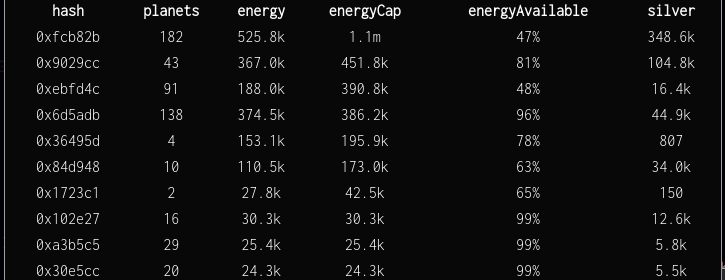
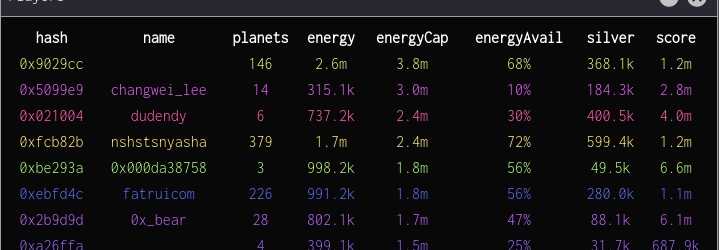
improved Player List plugin - added score, player colors, twitter names - you can now click on a player to jump to one of their planets - updated README and screenshot

diff --git a/content/utilities/player-list/plugin.js b/content/utilities/player-list/plugin.js
@@ -30,26 +30,61 @@ function CreatePlayersObject() {
 	return o;
 }
 
+async function downloadTwitterNames() {
+	return fetch('https://api.zkga.me/twitter/all-twitters')
+		.then(response => response.json())
+}
+
+// return example: 'hsl(285,100%,70%)'
+function getPlayerColor(ethAddress) {
+	return df.getProcgenUtils().getPlayerColor(ethAddress);
+}
+
+function findBestPlanetOfPlayer(ethAddress) {
+	const planets = df.getAllOwnedPlanets();
+	let bestPlanet = null;
+	for (const planet of planets) {
+		if (planet.owner !== ethAddress) continue;
+		if (bestPlanet === null) {
+			bestPlanet = planet;
+			continue;
+		}
+		if (planet.energyCap > bestPlanet.energyCap)
+			bestPlanet = planet;
+	}
+	return bestPlanet;
+}
+
+function getPlayerScore(player) {
+	return player.withdrawnSilver + player.totalArtifactPoints;
+}
+
 function Plugin() {
 	var o = {};
 	o.players = {};
 	o.playerList = [];
 	o.div;
 	o.div_playerList;
-	o.playerCount = 0;
 	o.updateInterv = null;
 	o.firstRender = true;
+	o.twitterNames = null;
+
+	o.init = function() {
+		o.updateInterv = setInterval(o.update, 1000*10);
+		o.update();
+		downloadTwitterNames().then(twitter => { o.twitterNames = twitter });
+	}
 
 	o.render = function(div) {
 		o.div = div;
-        div.style.width = '700px';
+		div.style.width = '700px';
+		div.parentElement.parentElement.style.bot = '0px'
 
-        o.div_playerList = document.createElement('div');
-        div.appendChild(o.div_playerList);
+		o.div_playerList = document.createElement('div');
+		div.appendChild(o.div_playerList);
 
 		if (o.firstRender) {
-			o.updateInterv = setInterval(o.update, 1000*10);
-			o.update();
+			o.init();
 			o.firstRender = false;
 		}
 	}
@@ -67,41 +102,45 @@ function Plugin() {
 	o.getPlayerInfo = function() {
 		if (o.playerList.length > 0) return;
 		const planets = df.getAllOwnedPlanets();
+		const allPlayers = df.getAllPlayers();
 		for (var hash in o.players) {
 			o.players[hash].reset();
 		}
-		for (var planet of planets) {
-			if (!o.players[planet.owner]) {
-				o.players[planet.owner] = CreatePlayersObject();
-				o.players[planet.owner].hash = planet.owner;
+		function createNewPlayer(hash) {
+			o.players[hash] = CreatePlayersObject();
+			o.players[hash].hash = planet.owner;
+			for (var p of allPlayers) {
+				if (p.address !== hash) continue;
+				o.players[hash].dfObject = p;
+				break;
 			}
+		}
+		for (var planet of planets) {
+			if (!o.players[planet.owner])
+				createNewPlayer(planet.owner);
 			var player = o.players[planet.owner];
 			player.addPlanet(planet);
 			player.energy += planet.energy;
 			player.energyCap += planet.energyCap;
 			player.silver += planet.silver;
 		}
-		o.playerCount = 0;
 		o.playerList = [];
 		for (var hash in o.players) {
 			var player = o.players[hash];
+			if (player.planets.length < minPlayerPlanetCount) continue;
 			o.playerList.push(player);
-			o.playerCount++;
 			player.energyAvailablePercent = player.energy/player.energyCap;
 		}
 		o.playerList.sort((a, b) => b.energyCap - a.energyCap );
 	}
 
 	o.drawPlayerInfo = function() {
-		var str = "";
-		//str += o.playerCount + " players";
-		//str += "\n";
-		o.div_playerList.innerText = str;
+		o.div_playerList.innerText = "";
 		var table = document.createElement('table');
 		table.width = "700px";
 		{
-			var tr = document.createElement('tr');
-			var groups = [ "hash", "planets", "energy", "energyCap", "energyAvailable", "silver" ];
+			const tr = document.createElement('tr');
+			const groups = [ "hash", "name", "planets", "energy", "energyCap", "energyAvail", "silver", "score" ];
 			for (var group of groups) {
 				var th = document.createElement('th');
 				th.innerText = group;
@@ -115,34 +154,51 @@ function Plugin() {
 			td.style["text-align"] = "center";
 			tr.appendChild(td);
 		}
-		for (var player of o.playerList) {
-			if (player.planets.length < minPlayerPlanetCount) continue;
-			var tr = document.createElement('tr');
+		for (const player of o.playerList) {
+			const tr = document.createElement('tr');
+			tr.style["color"] = getPlayerColor(player.hash);
+			tr.style.cursor = "pointer";
+			const bestPlanet = findBestPlanetOfPlayer(player.hash);
+			tr.onclick = ()=> {
+				ui.centerPlanet(bestPlanet);
+			}
+			const twitterName = o.getTwitterName(player.hash);
+			const name = twitterName !== "" ? twitterName : player.hash.substr(0, 8); 
+			tr.title = "jump to "+name;
+
 			addAsTd(tr, player.hash.substr(0, 8));
+			addAsTd(tr, twitterName);
 			addAsTd(tr, player.planets.length);
 			addAsTd(tr, formatNumberForDisplay(player.energy));
 			addAsTd(tr, formatNumberForDisplay(player.energyCap));
 			addAsTd(tr, parseInt(player.energyAvailablePercent*100)+"%");
 			addAsTd(tr, formatNumberForDisplay(player.silver));
+			addAsTd(tr, formatNumberForDisplay(getPlayerScore(player.dfObject)));
 			table.appendChild(tr);
 		}
-        o.div_playerList.appendChild(table);
+		o.div_playerList.appendChild(table);
+	}
+
+	o.getTwitterName = function(playerEthAddress) {
+		if (o.twitterNames === null) return "";
+		if (!o.twitterNames[playerEthAddress]) return "";
+		return o.twitterNames[playerEthAddress];
 	}
 
 	return o;
 }
 
 class PlayerListPlugin {
-    constructor() {
+	constructor() {
 		this.plugin = Plugin();
-    }
-    async render(container) {
+	}
+	async render(container) {
 		this.plugin.render(container);
-    }
-    destroy() {
+	}
+	destroy() {
 		this.plugin.destroy();
 		this.plugin = null;
-    }
+	}
 }
 
 export default PlayerListPlugin;

diff --git a/content/utilities/player-list/README.md b/content/utilities/player-list/README.md
@@ -1,6 +1,12 @@
 # Player List
 
 Shows a list of players that appear on your map.
-Shows information about them (energy/energyCap/silver/planet-count)
+
+Shows information about them:
+hash, planetCount, energy, energyCap, energyAvailable, silver, score
+
+List is sorted by highest energyCap.
+
+You can click on a player to jump to one of their planets (with the highest energyCap).
 
 Planets outside of your map will not be included, only what you can see and only players with more than two planets. The view will refresh every ten seconds while open.
